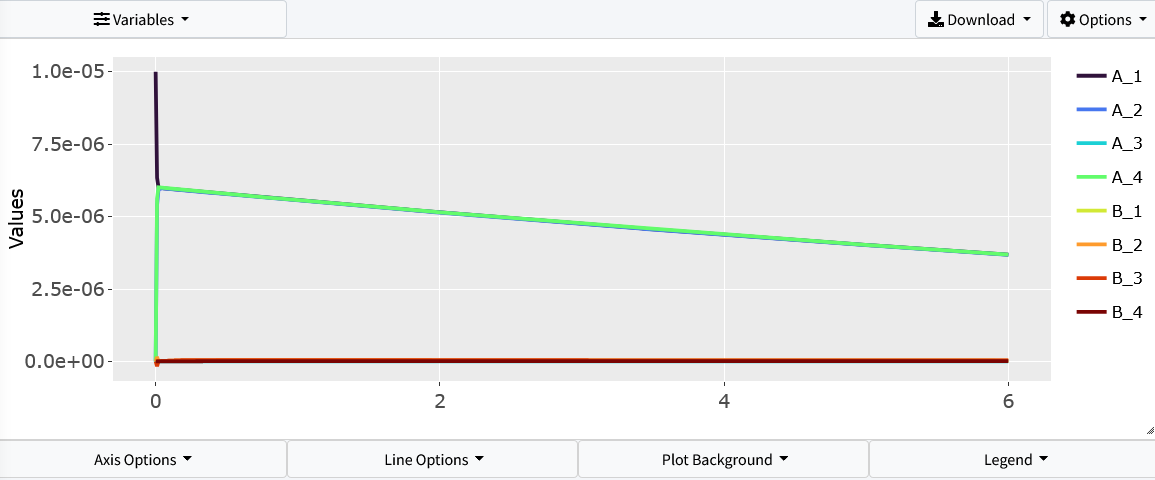
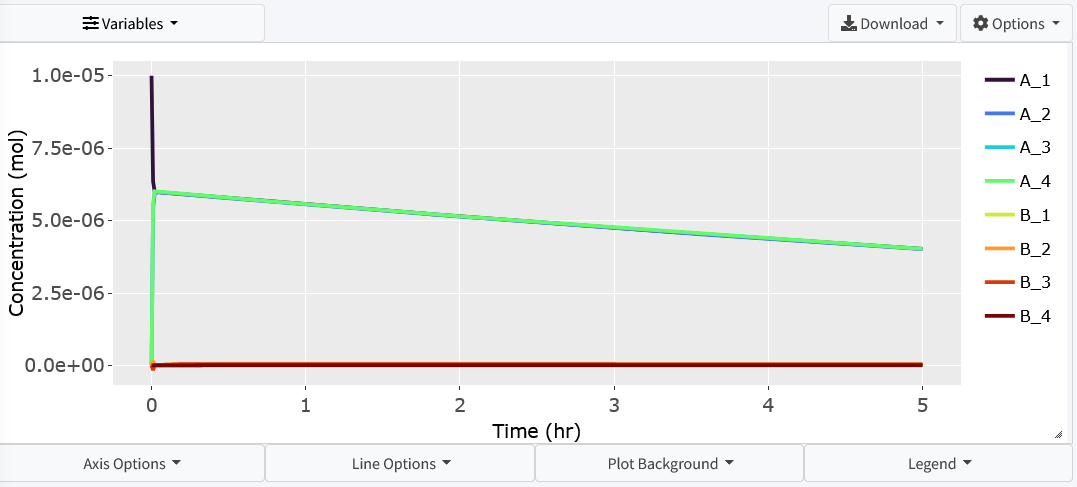
docs: updated multicompartment tutorial

diff --git a/docs/pages/tutorial_mc/2_model_results.rst b/docs/pages/tutorial_mc/2_model_results.rst
@@ -1,0 +1,68 @@
+==================================
+Results
+==================================
+
+In this section, we will cover exectuting the model and its different outputs.
+
+Solve Model 
+-----------------------
+
+Navigate to the "Execute Model" tab on the lefthand tabbar. This tab solves our 
+model and provides us with the options to customize the solver. For this model,
+we will just solve using the standard options:
+
+#. Enter the following times: Starting = 0, End = 5, Step = 0.001, Unit = hr.  
+   This generates the model to be solved and integrated at time points 0, 0.001,
+   0.002.....5.998, 5.999, 6. 
+#. Press the "Run Solver" button. 
+#. An output table should be generated with the concentration of each species 
+   along each time step of the solved model. 
+
+
+
+
+You can download this solved model data to a csv file in the 
+download tab on this page.  Post processing is not used in this tutorial. 
+
+.. figure:: images/execute_1.png
+
+.. note:: BioModMe is set by default to show the results table rounded to 3
+         digits. Most terms in these results at the beginning will round
+         to 0. To change this, check the **Viewing Options** box and turn 
+         off the **Round** option or turn on the **Scientific Notation** 
+         option. 
+
+
+Below is how the table for this model should look after the initial solve: 
+
+.. figure:: images/results_table.png
+
+To see the values for the model in a good form, we will change the viewing 
+options:
+
+#. Click the **Viewing Options** Checkbox. 
+#. Change Results Units to **umol**.
+
+.. figure:: images/result_table_viewing_options.png
+
+In this section, we will examine the plotting of this model.
+
+
+Visualization
+----------------------------------------
+
+Move to the **Visualization** tab.  The starting plot from the model should
+look like the following:
+
+.. figure:: images/plot_1.png
+
+For this problem we want to examine how the concentration of **A** varies 
+throughout the bloodsteam (**A_1**, **A_2**, **A_4**). Click the **Variable**
+dropdown and remove all necessary variables: 
+
+.. figure:: images/plot_var.png
+
+The resulting plot should look like: 
+
+.. figure:: images/plot_2.png
+

diff --git a/docs/pages/tutorial_mc/addIO.rst b/docs/pages/tutorial_mc/addIO.rst
@@ -4,8 +4,9 @@ Add Compartment Inputs/Outputs
 
 In this section of the tutorial, we will cover how to add flows, inputs, and 
 outputs of compartments to the model. Begin by scroling to the 
-**Input/Output** box on the **Create Model** Tab.  We will being by adding 
-the flows between species. Again, here is the overall flow model: 
+**Input/Output** box on the **Create Model** tab. Press the addition button to 
+begin adding the below flows between species information.
+Again, here is the overall flow model: 
 
 .. container:: bordergrey
 
@@ -27,7 +28,6 @@ part of the flow diagram we will be entering:
     .. figure:: images/flow_diagram_rob.png
         :align: center
         :scale: 40%
-
 
 #. In **Options** select **Flow Between Compartments**. This is used to account
    for flows leaving one compartment and entering one or more compartments.
@@ -62,7 +62,9 @@ part of the flow diagram we will be entering:
    * **Flow Variable**: F2
    * **Flow Value**: 2
 
-#. Press the **Add** button to add this flow. 
+#. Press the **Add** button to add this flow. You can select the 
+   **Keep Active** checkbox on the bottom of the page to prevent this page
+   from closing on pressing the add button. 
 
    .. container:: botTopMargin
 

diff --git a/docs/pages/tutorial_mc/addEquations.rst b/docs/pages/tutorial_mc/addEquations.rst
@@ -11,12 +11,13 @@ This tutorial model has only one reaction: the conversion of A to B (**A3** &
 
 Steps: 
 
-#. Scroll down to the **Equations** box in the **Create Model** tab. 
+#. Scroll down to the **Equations** box in the **Create Model** tab. Press 
+   the addition button below the equation table. 
 #. Change the **Active Compartment** to "Liver_Tissue".
 #. Change the **Reaction Direction** to "Forward" since this is a one way reaction.
 #. This reaction has one product and one reactant. Make sure **Reactant 1** is 
-   **A_3** and **Product 1** is **B_3**. Change the **Forward Rate Constant** 
-   to **k_1**.
+   **A_3** and **Product 1** is **B_3**. Make the **Forward Rate Constant** 
+   to **k_f1**.
 #. Press the **Add Equation** button. 
 
 .. figure:: images/eqn_1_marked.png

diff --git a/docs/pages/tutorial_mc_index.rst b/docs/pages/tutorial_mc_index.rst
@@ -40,3 +40,4 @@ R programming language using stand shiny app protocol.
     :hidden:
 
     tutorial_mc/1_construct_model
+    tutorial_mc/2_model_results

diff --git a/docs/pages/tutorial_mc/1_construct_model.rst b/docs/pages/tutorial_mc/1_construct_model.rst
@@ -12,5 +12,4 @@ This section will cover how to build and construct a model.
     addIO
     parameters
     differentialEquations
-    solve
     
